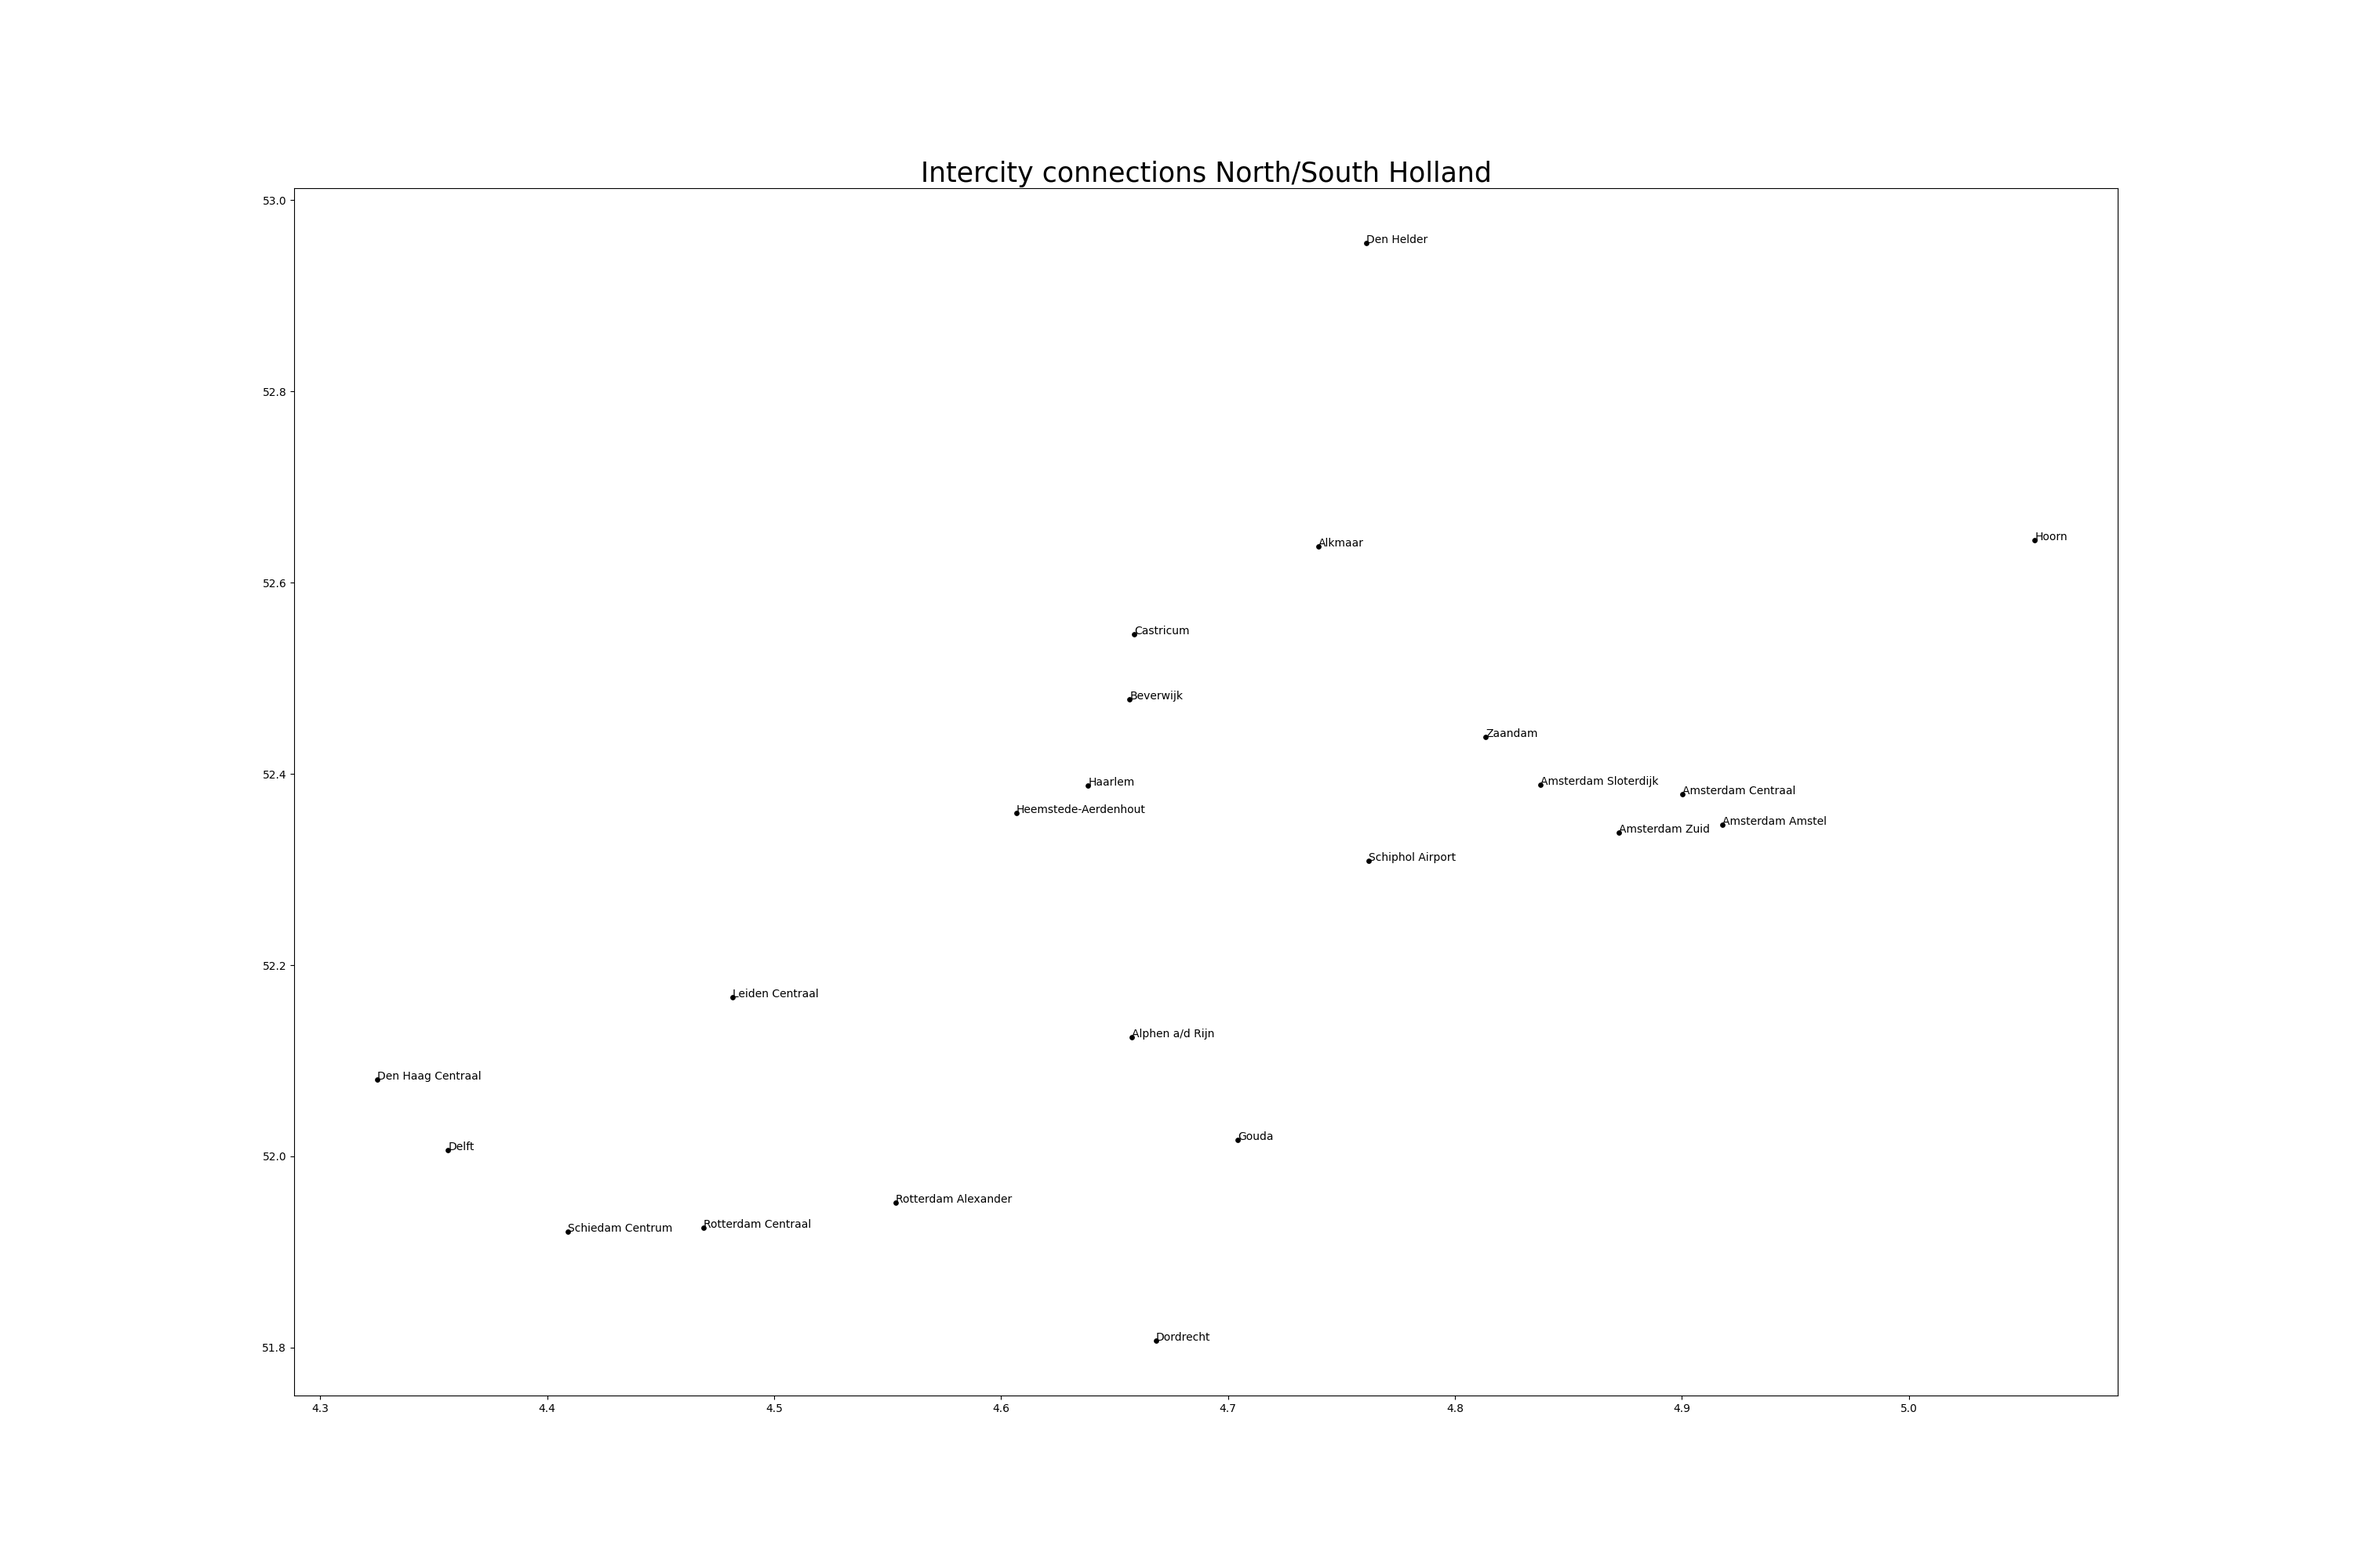
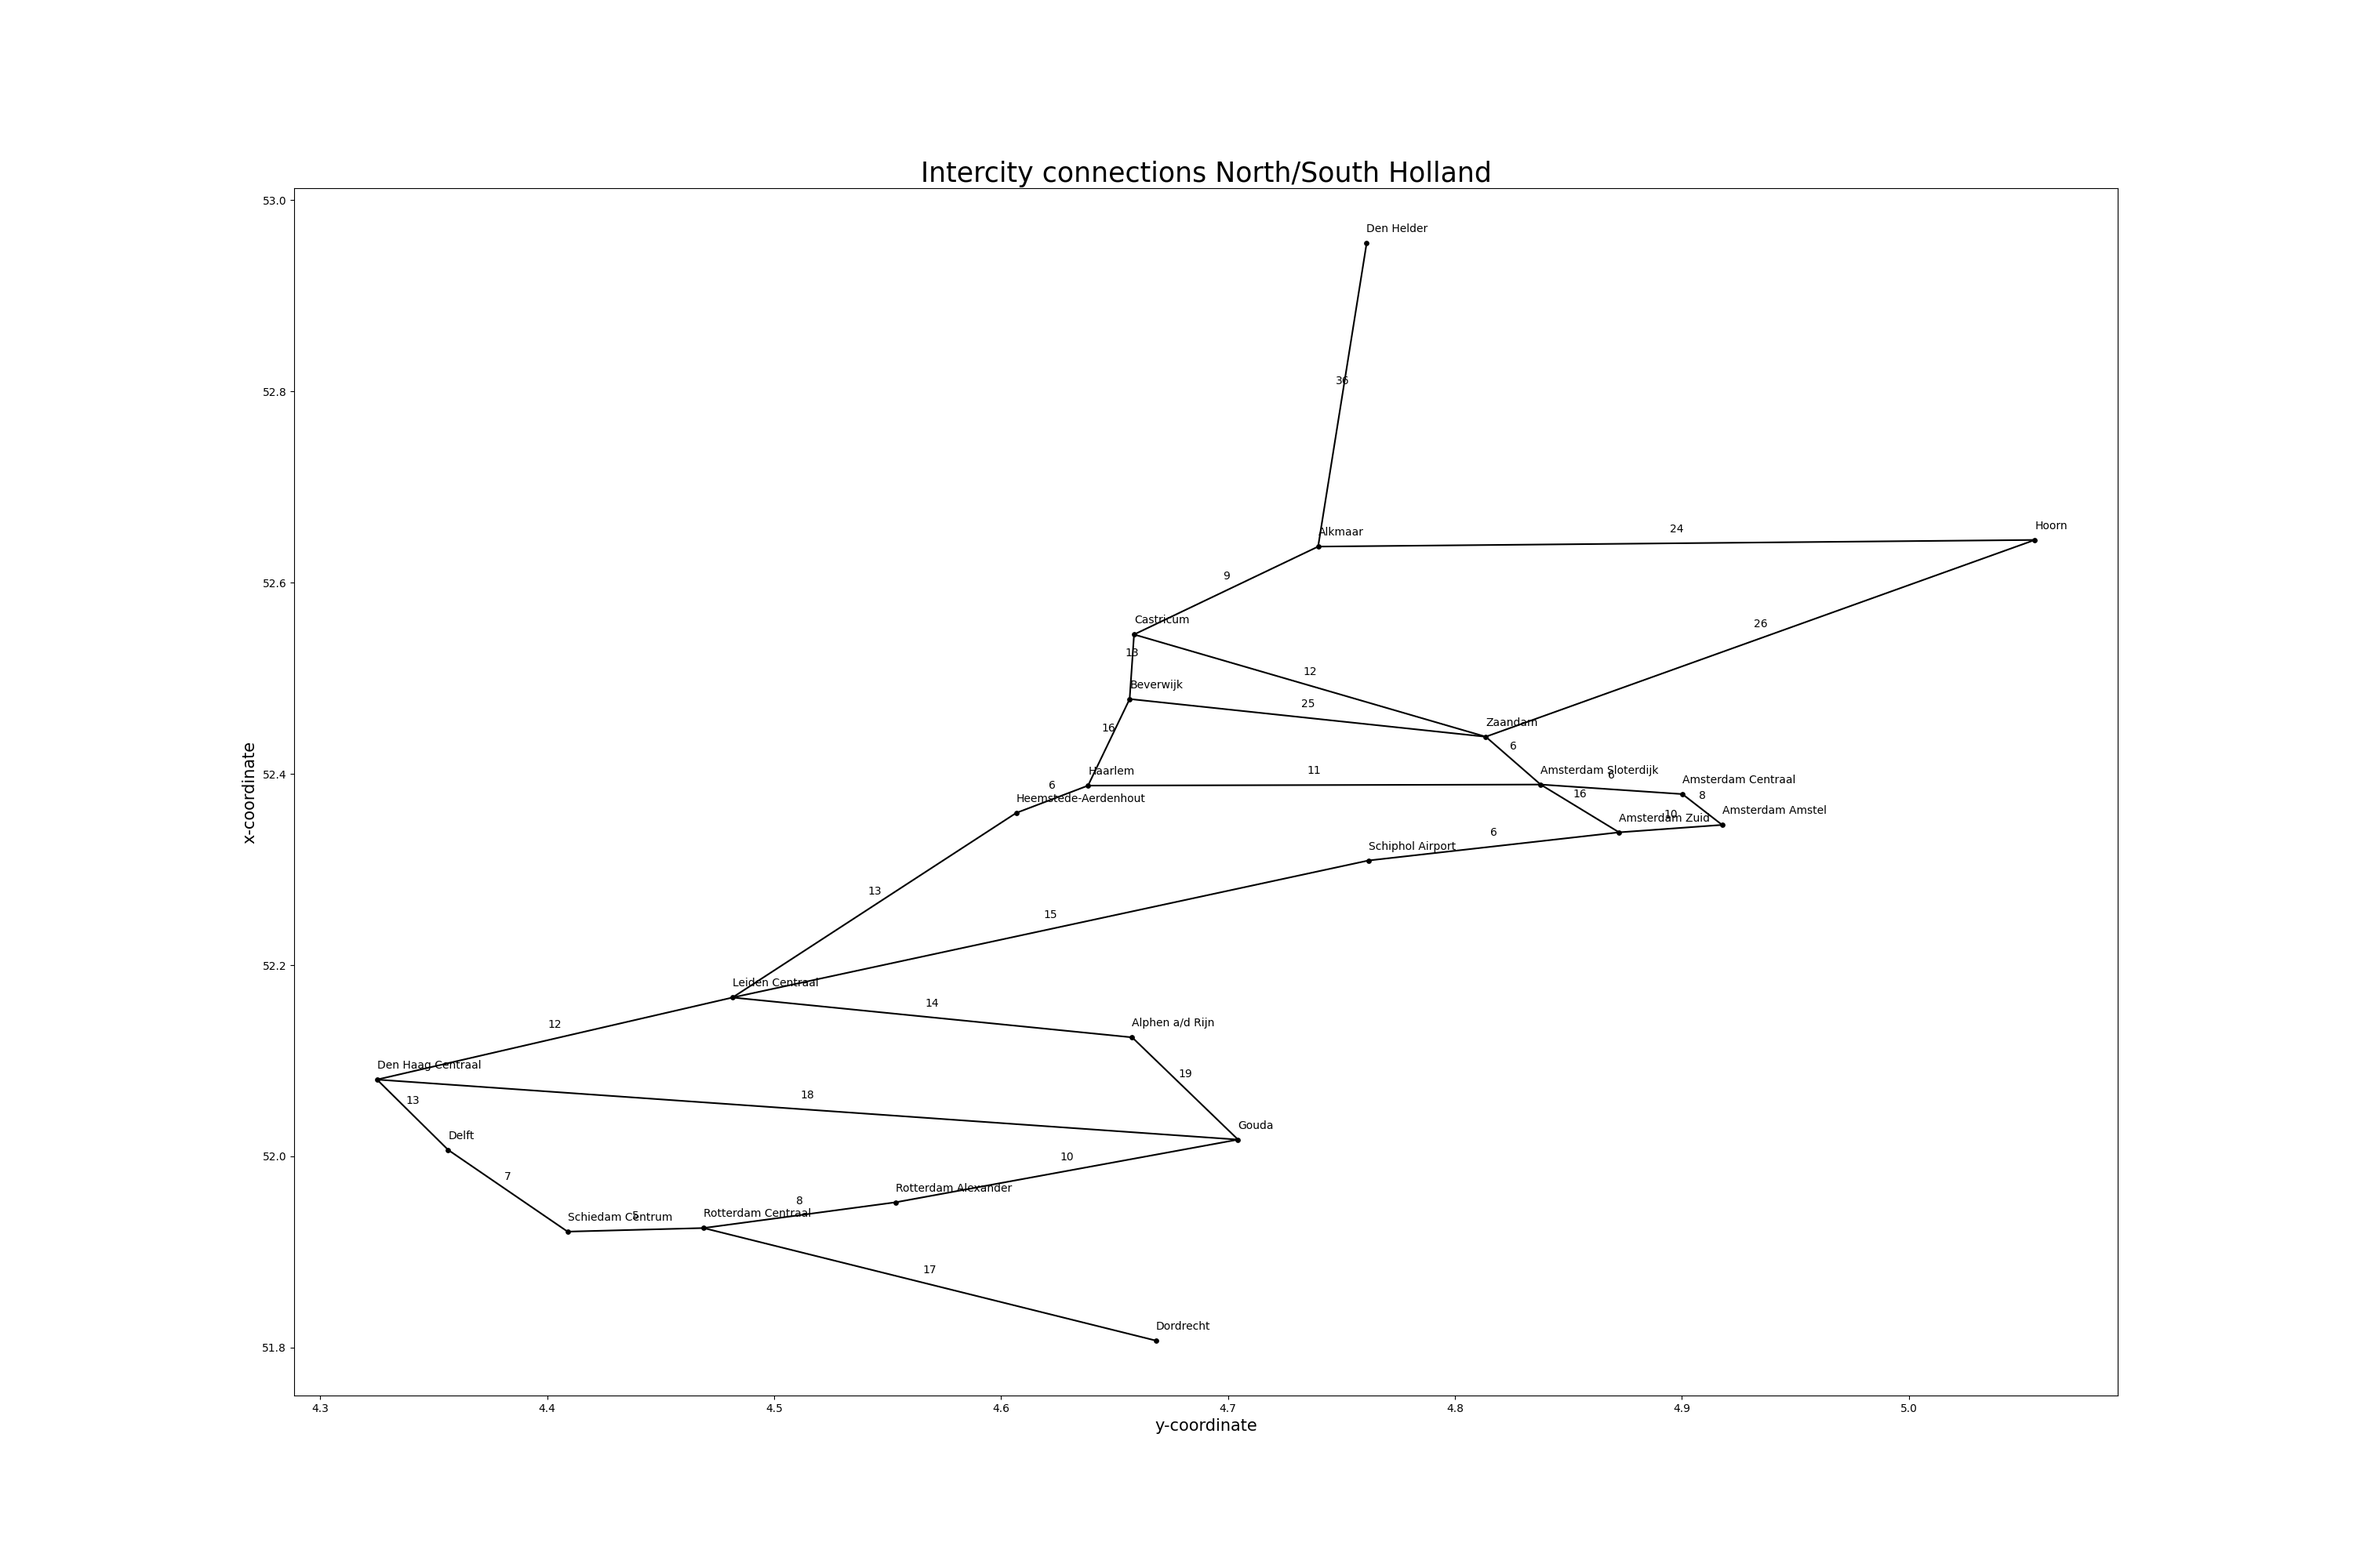
update visualization

diff --git a/deel1.py b/deel1.py
@@ -36,23 +36,10 @@ def main():
     # import data 
     df_connections = pd.read_csv("Data_Holland/ConnectiesHolland.csv")
     df_stations = pd.read_csv("Data_Holland/StationsHolland.csv")
-
-    # create plot of train network N/S-holland 
-    x = df_stations['x']
-    y = df_stations['y']
-    z = df_stations['station']
-    plt.figure(figsize=(30, 20))
-    plt.scatter(y, x, c = ['black'], s = 15)
-
-    for i, txt in enumerate(z):
-        plt.annotate(txt, (y[i], x[i]))
-
-    plt.title("Intercity connections North/South Holland", fontsize=25)
-    plt.savefig('Stations_Holland')
     
     # list with objects of all stations of N/Z-holland
-    stations = list()
-    
+    stations = {}
+
     for i_1 in df_stations.index:
         # retrieve initial station information
         name = df_stations['station'][i_1]
@@ -68,8 +55,47 @@ def main():
                 connections[df_connections['station1'][i_2]] = df_connections['distance'][i_2]
 
         # create station object and add to list
-        name = Station(connections, x_coord, y_coord)
-        stations.append(name)
+        station_object = Station(connections, x_coord, y_coord)
+        stations[name] = station_object
+    
+    # create scatterplot of train network N/S-holland 
+    x = df_stations['x']
+    y = df_stations['y']
+    z = df_stations['station']
+    plt.figure(figsize=(30, 20))
+    plt.scatter(y, x, c = 'black', s = 15)
+
+    # add station name to each scatter point
+    for i, txt in enumerate(z):
+        plt.annotate(txt, (y[i], x[i]), textcoords="offset points", xytext=(0,10))
+
+    # add connections with line + duration
+    for i in df_connections.index:
+
+        # retrieve connections info from pandas dataframe
+        station1 = df_connections['station1'][i]
+        station2 = df_connections['station2'][i]
+        duration = df_connections['distance'][i]
+
+        # retrieve related objects 
+        station1_object = stations[station1]
+        station2_object = stations[station2]
+        
+        # plot connection plus durations
+        plt.plot([station1_object.y_coord, station2_object.y_coord], [station1_object.x_coord, station2_object.x_coord], c = 'black')
+        plt.annotate(duration, 
+                    ((station1_object.y_coord + station2_object.y_coord)/2,(station1_object.x_coord + station2_object.x_coord)/2), 
+                    textcoords="offset points", 
+                    xytext=(0,10), 
+                    ha='center')
+
+    # add titles
+    plt.title("Intercity connections North/South Holland", fontsize=25)
+    plt.xlabel("y-coordinate", fontsize = 15)
+    plt.ylabel("x-coordinate", fontsize = 15)
+
+    # save figure
+    plt.savefig('Stations_Holland')
 
 if __name__ == "__main__":
     main()
